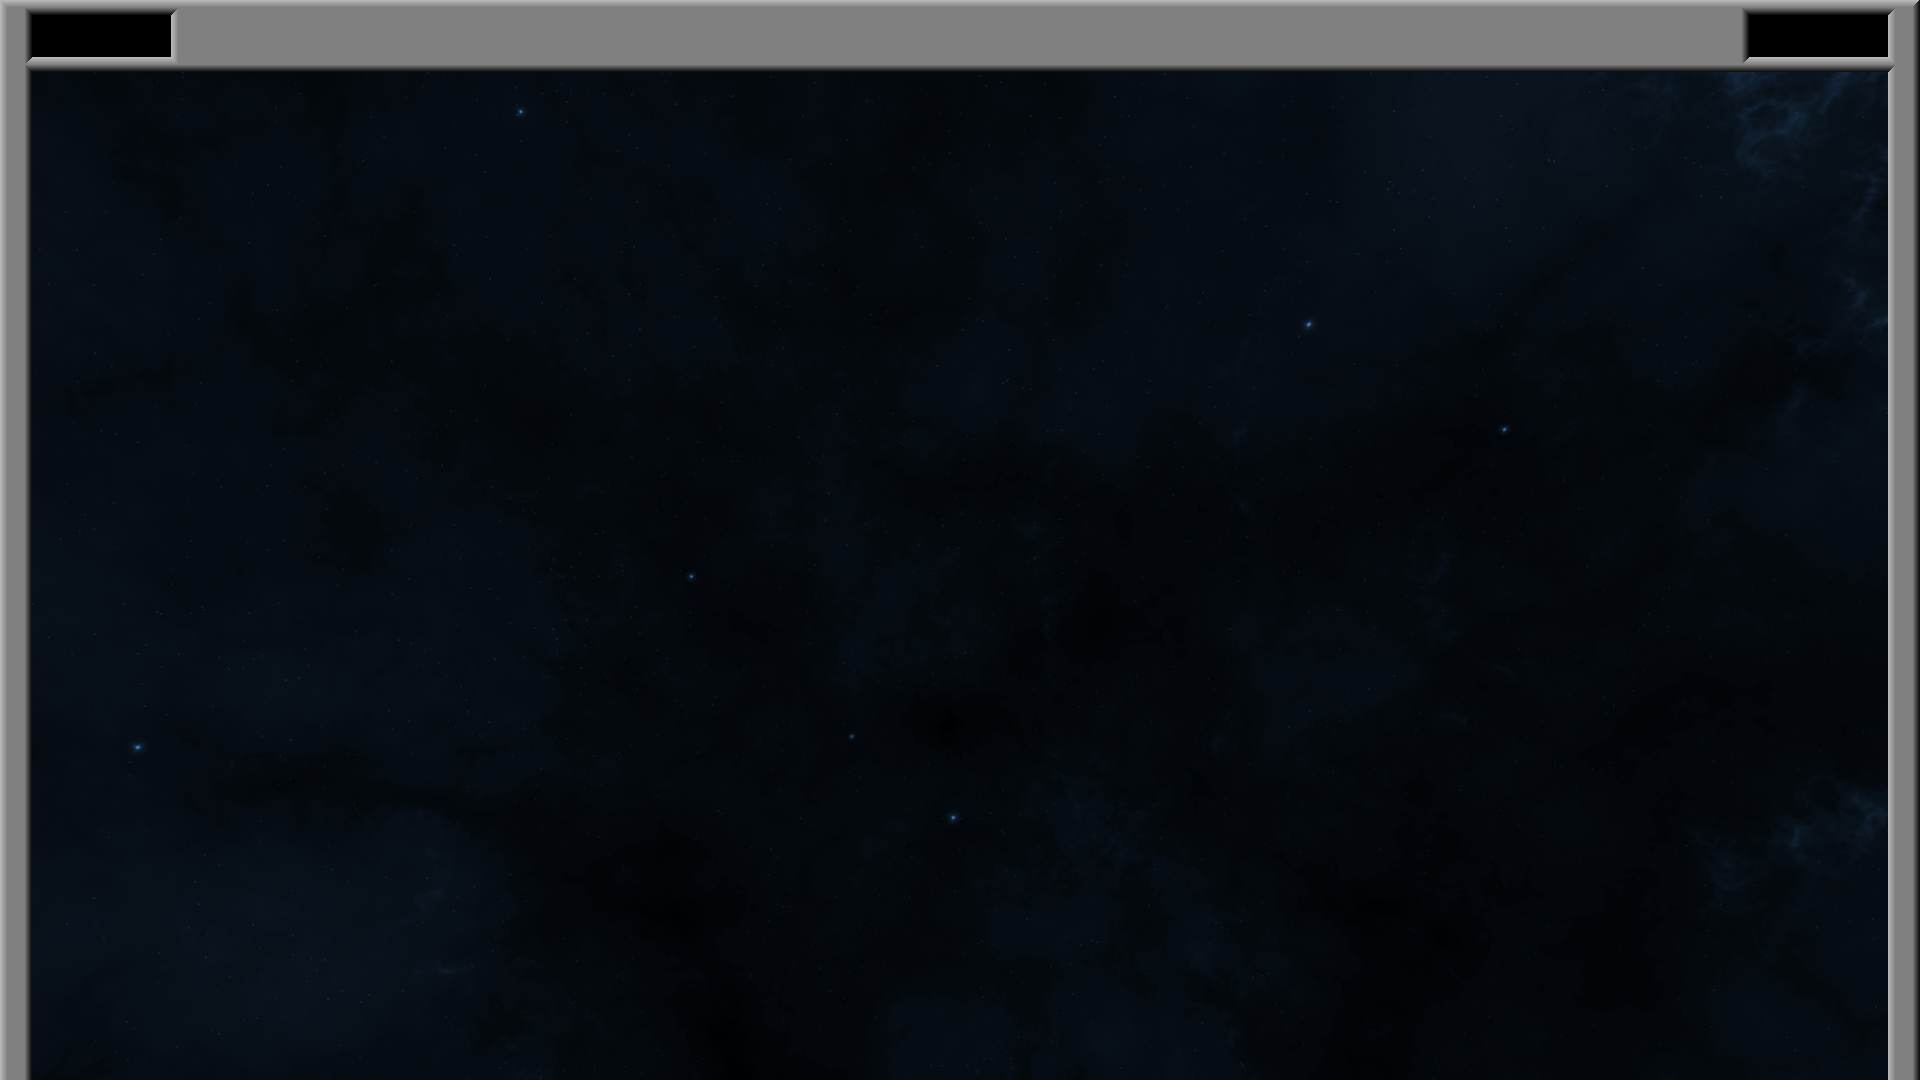
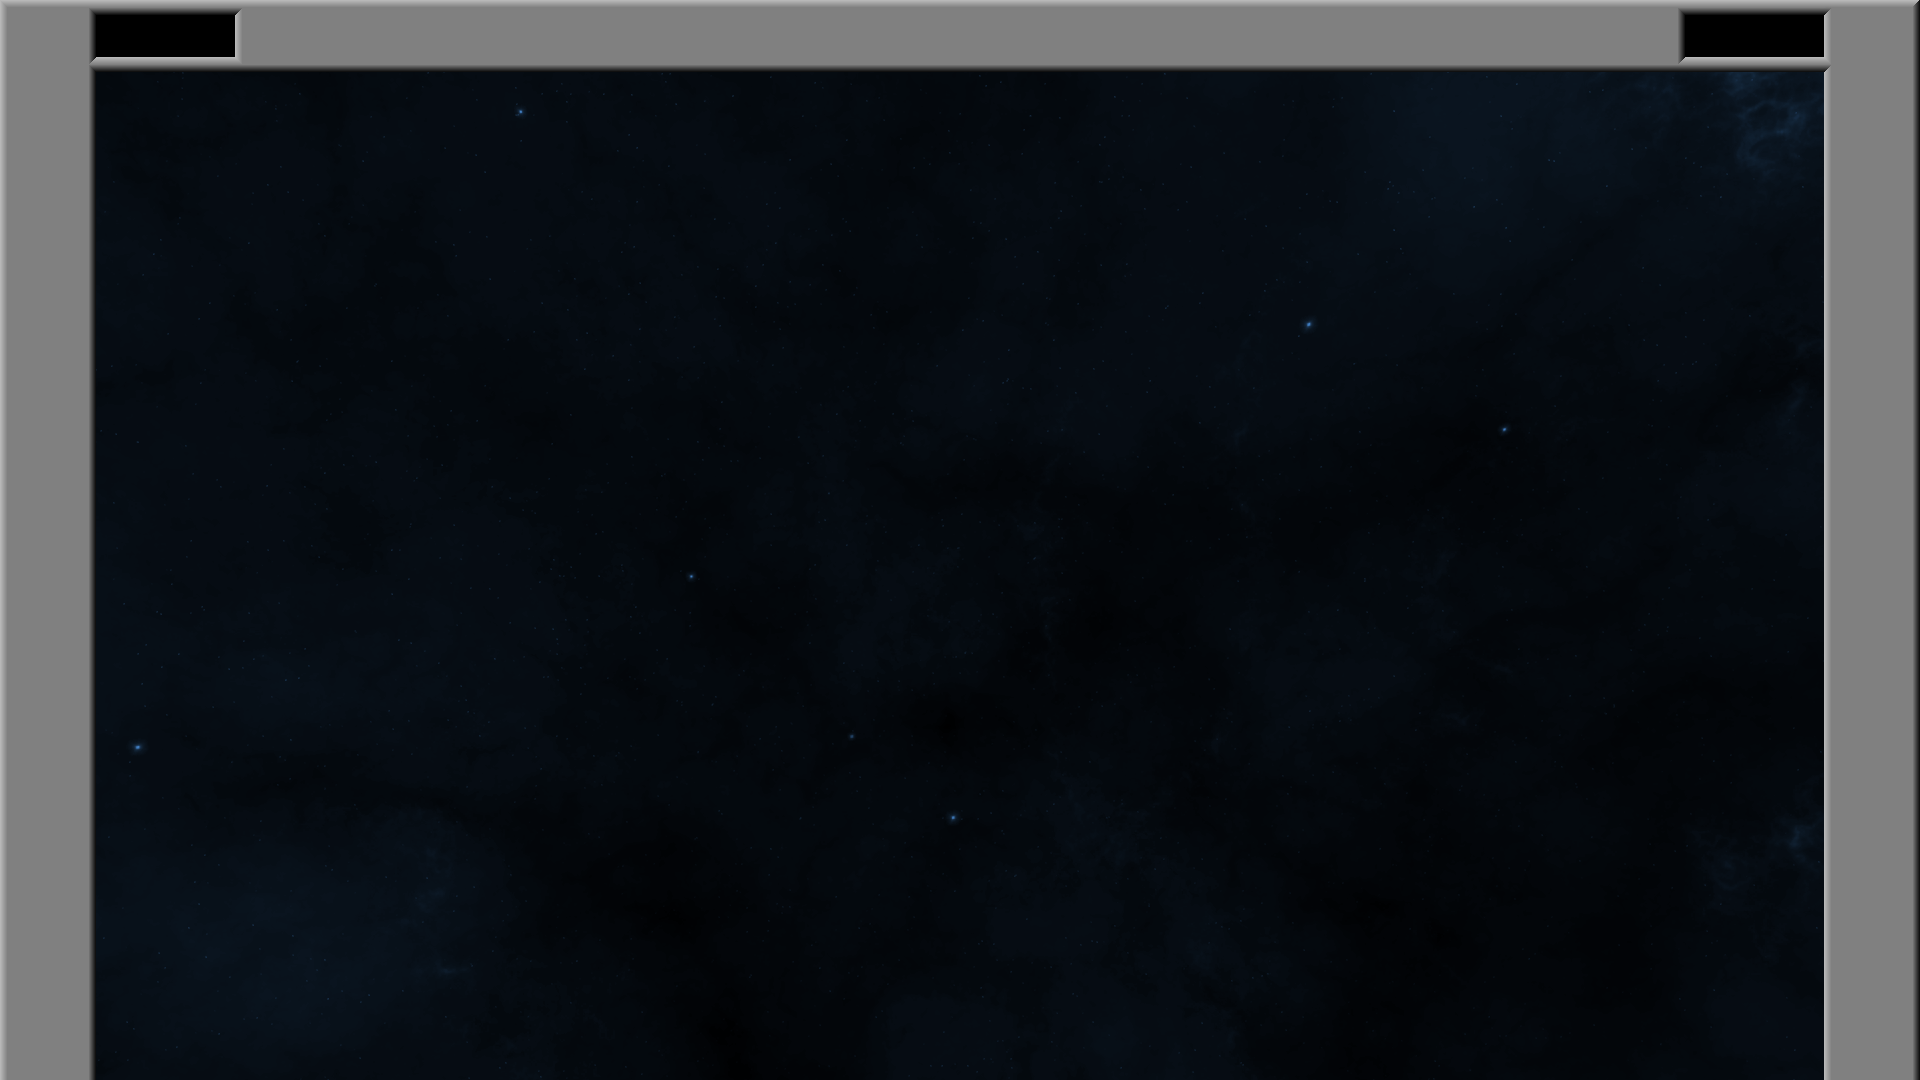
Double bricks

Changed region(s): [[0.875, 0.0, 1.0, 1.0], [0.0, 0.0, 0.125, 1.0]]

diff --git a/game.c b/game.c
@@ -69,10 +69,12 @@ typedef struct {
 } Paddle;
 
 typedef struct {
-    bool   is_active;
-    bool   is_solid;
-    bool   is_destroyed;
-    Sprite sprite;
+    bool     is_active;
+    bool     is_solid;
+    bool     is_double;
+    bool     is_first; // First of a double pair
+    bool     is_destroyed;
+    Sprite   sprite;
 } Brick;
 
 typedef struct {
@@ -193,20 +195,39 @@ void ball_init(Ball* b, Sprite* bs, Sprite* ps) {
 }
 
 void brick_init(Brick* b, char id, unsigned col, unsigned row) {
-    bool solid = (!isdigit(id));
-    unsigned i;
-    i = solid ? (unsigned) id - 'a' + BRICK_TYPES : (unsigned) id - '0';
+    bool is_double = isupper(id);
+    bool is_solid = !(is_double || isdigit(id));
+    bool is_first = false;
+    if (is_double) {
+	if (col == 0) {
+	    is_first = true;
+	} else {
+	    Brick *b_prev = &sprites.bricks[col - 1 + row * BRICK_COLS];
+	    is_first = !(b_prev->is_active && b_prev->is_double && b_prev->is_first);
+	}
+    }
 
-    b->is_active = true;
-    b->is_solid = solid;
+    b->is_active    = true;
+    b->is_solid     = is_solid;
+    b->is_double    = is_double;
+    b->is_first     = is_first;
     b->is_destroyed = false;
 
     vec2s pos = {{
         BG_WALL_LEFT + col * BRICK_SIZE.s,
-        BG_WALL_TOP + row * BRICK_SIZE.t
+        BG_WALL_TOP  + row * BRICK_SIZE.t
     }};
-    b->sprite.quad = gfx_quad_create(&sprites.render, pos, BRICK_SIZE, BRICK_OFFSETS[i]);
-    b->sprite.size = BRICK_SIZE;
+
+    float width = is_double ? BRICK_SIZE.s * 2 : BRICK_SIZE.s;
+    vec2s size = (vec2s) {{ width, BRICK_SIZE.t }};
+
+    vec2s offset;
+    if      (is_double) offset = BRICK_DOUBLE_OFFSETS[id - 'A'];
+    else if (is_solid)  offset = BRICK_SOLID_OFFSETS[ id - 'a'];
+    else                offset = BRICK_SINGLE_OFFSETS[id - '0'];
+
+    b->sprite.quad = gfx_quad_create(&sprites.render, pos, size, offset);
+    b->sprite.size = size;
 }
 
 void level_read(const char* data) {
@@ -222,7 +243,7 @@ void level_read(const char* data) {
             // No brick
             sprites.bricks[count++].is_active = false;
             col++;
-        } else if (isdigit(c) || (c >= 'a' && c <= 'f')) {
+        } else if (isdigit(c) || (c >= 'a' && c <= 'f') || (c >= 'A' && c <= 'F')) {
             brick_init(&sprites.bricks[count++], c, col, row);
             col++;
         } else if (c == '\n') {
@@ -296,7 +317,7 @@ void game_load(void) {
     sounds[SoundBrick] = aud_sound_load(AUD_BRICK);
     sounds[SoundDeath] = aud_sound_load(AUD_DEATH);
     sounds[SoundWin]   = aud_sound_load(AUD_WIN);
-    music_load();
+    //music_load();
     playing = aud_sound_play(AUD_MUSIC[track]);
 
     state = StateMenu;
@@ -596,6 +617,10 @@ vec2s get_brick_dist(Sprite* s, unsigned count, unsigned brick_hits[VERT_COUNT])
     Brick* b = &sprites.bricks[i];
     if (!b->is_solid) {
         b->is_destroyed = true;
+	if (b->is_double && !b->is_first) {
+	    Brick* b_prev = &sprites.bricks[i - 1];
+	    b_prev->is_destroyed = true;
+	}
         aud_sound_play(AUD_BRICK);
     }
 
@@ -672,7 +697,7 @@ void game_update(double frame_time) {
 void level_render(void) {
     for (unsigned i = 0; i < BRICK_COLS * BRICK_ROWS; i++) {
 	Brick* b = &sprites.bricks[i];
-        if (b->is_active && !b->is_destroyed) {
+        if (b->is_active && !b->is_destroyed && (!b->is_double || b->is_first)) {
             gfx_render_quad(&sprites.render, &b->sprite.quad);
         }
     }

diff --git a/config.h b/config.h
@@ -18,10 +18,11 @@ static const unsigned CR_COUNT       = 2; // How many times per frame to run col
 
 static const char     FONT_FILE[]    = "font/JupiteroidRegular.ttf";
 static const unsigned FONT_HEIGHTS[] = { 64, 40 };
-static const Text     TEXT_SCORE     = { FontLarge,  {{ 1750, 56 }}, {{ 1.0f, 1.0f, 1.0f }}, "%05u" };
+static const Text     TEXT_SCORE     = { FontLarge,  {{ 94,  54  }}, {{ 1.0f, 1.0f, 1.0f }}, "%u" };
 static const Text     TEXT_PAUSED    = { FontLarge,  {{ 880, 600 }}, {{ 1.0f, 1.0f, 1.0f }}, "Paused" };
-static const Text     TEXT_MENU      = { FontMedium, {{ 680, 900 }}, {{ 0.6f, 0.6f, 0.6f }},
+static const Text     TEXT_MENU      = { FontMedium, {{ 680, 860 }}, {{ 0.6f, 0.6f, 0.6f }},
     "Use the mouse to control the paddle.\n"
+    "Click mouse button to release the ball.\n"
     "Press space to pause.\n"
     "Press escape to quit.\n"
     "\n"
@@ -43,8 +44,12 @@ static const char* const AUD_MUSIC[] = {
 
 static const char     BG_FILE[]      = "gfx/background.png";
 static const unsigned BG_WALL_TOP    = 72;
-static const unsigned BG_WALL_LEFT   = 32;
-static const unsigned BG_WALL_RIGHT  = 32;
+static const unsigned BG_WALL_LEFT   = 96;
+static const unsigned BG_WALL_RIGHT  = 96;
+
+/*
+ * Sprites
+ */
 
 static const char SPRITE_SHEET[] = "gfx/spritesheet.png";
 
@@ -62,20 +67,29 @@ static const vec2s    BALL_RELEASE[] = {
 };
 
 static const vec2s    BRICK_SIZE  = {{ 64, 32 }};
-static const unsigned BRICK_COLS  = 29;
+static const unsigned BRICK_COLS  = 27;
 static const unsigned BRICK_ROWS  = 12;
-static const unsigned BRICK_TYPES = 6; // Number of brick colours
-static const vec2s    BRICK_OFFSETS[] = {
-    {{ 0,   0  }}, // blue,   breakable,   id = 0
-    {{ 64,  0  }}, // green,  breakable,   id = 1
-    {{ 128, 0  }}, // orange, breakable,   id = 2
-    {{ 192, 0  }}, // purple, breakable,   id = 3
-    {{ 256, 0  }}, // red,    breakable,   id = 4
-    {{ 320, 0  }}, // yellow, breakable,   id = 5
-    {{ 0,   32 }}, // blue,   unbreakable, id = a
-    {{ 64,  32 }}, // green,  unbreakable, id = b
-    {{ 128, 32 }}, // orange, unbreakable, id = c
-    {{ 192, 32 }}, // purple, unbreakable, id = d
-    {{ 256, 32 }}, // red,    unbreakable, id = e
-    {{ 320, 32 }}  // yellow, unbreakable, id = f
+static const vec2s    BRICK_SINGLE_OFFSETS[] = {
+    {{ 0,   0  }}, // blue,   id = 0
+    {{ 64,  0  }}, // green,  id = 1
+    {{ 128, 0  }}, // orange, id = 2
+    {{ 192, 0  }}, // purple, id = 3
+    {{ 256, 0  }}, // red,    id = 4
+    {{ 320, 0  }}  // yellow, id = 5
+};
+static const vec2s    BRICK_SOLID_OFFSETS[] = {
+    {{ 0,   32 }}, // blue,   id = a
+    {{ 64,  32 }}, // green,  id = b
+    {{ 128, 32 }}, // orange, id = c
+    {{ 192, 32 }}, // purple, id = d
+    {{ 256, 32 }}, // red,    id = e
+    {{ 320, 32 }}, // yellow, id = f
+};
+static const vec2s    BRICK_DOUBLE_OFFSETS[] = {
+    {{ 0,   64 }}, // blue,   id = A
+    {{ 128, 64 }}, // green,  id = B
+    {{ 256, 64 }}, // orange, id = C
+    {{ 0,   96 }}, // purple, id = D
+    {{ 128, 96 }}, // red,    id = E
+    {{ 256, 96 }}  // yellow, id = f
 };

diff --git a/gfx.c b/gfx.c
@@ -424,8 +424,8 @@ void gfx_font_begin(Font* f) {
 void gfx_font_printf(Font* f, vec2s pos, vec3s colour, const char* fmt, ...) {
     va_list ap;
     va_start(ap, fmt);
-    int sz = vsnprintf(NULL, 0, fmt, ap);
-    char text[sz + 1];
+    int size = vsnprintf(NULL, 0, fmt, ap);
+    char text[size + 1];
     vsnprintf(text, sizeof text, fmt, ap);
     va_end(ap);
 
